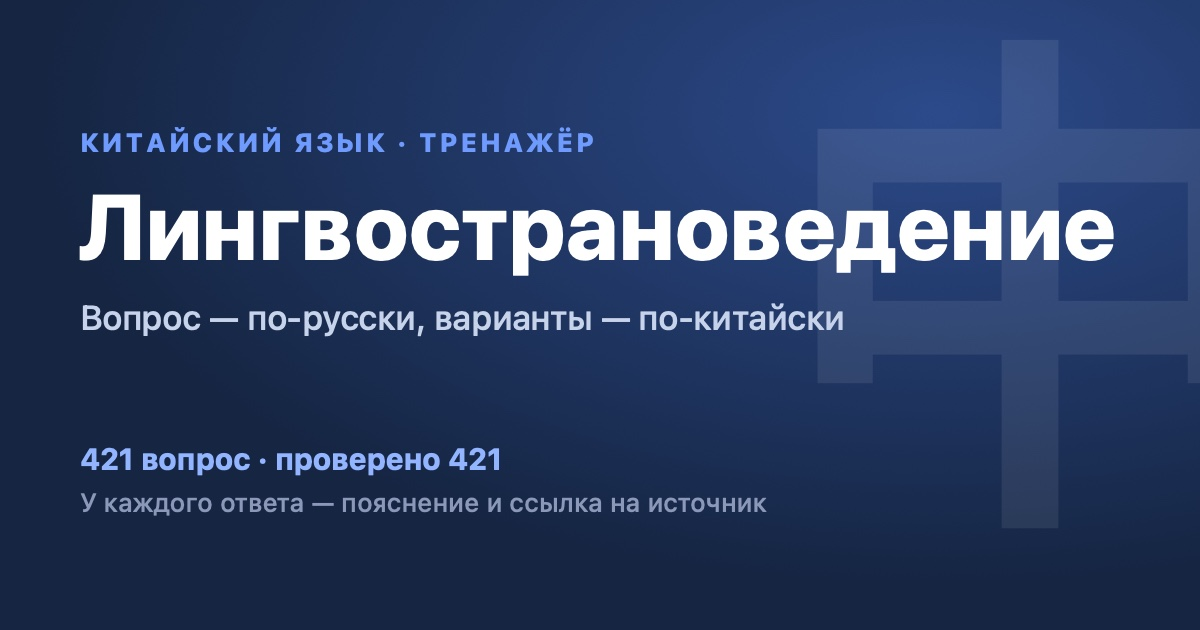
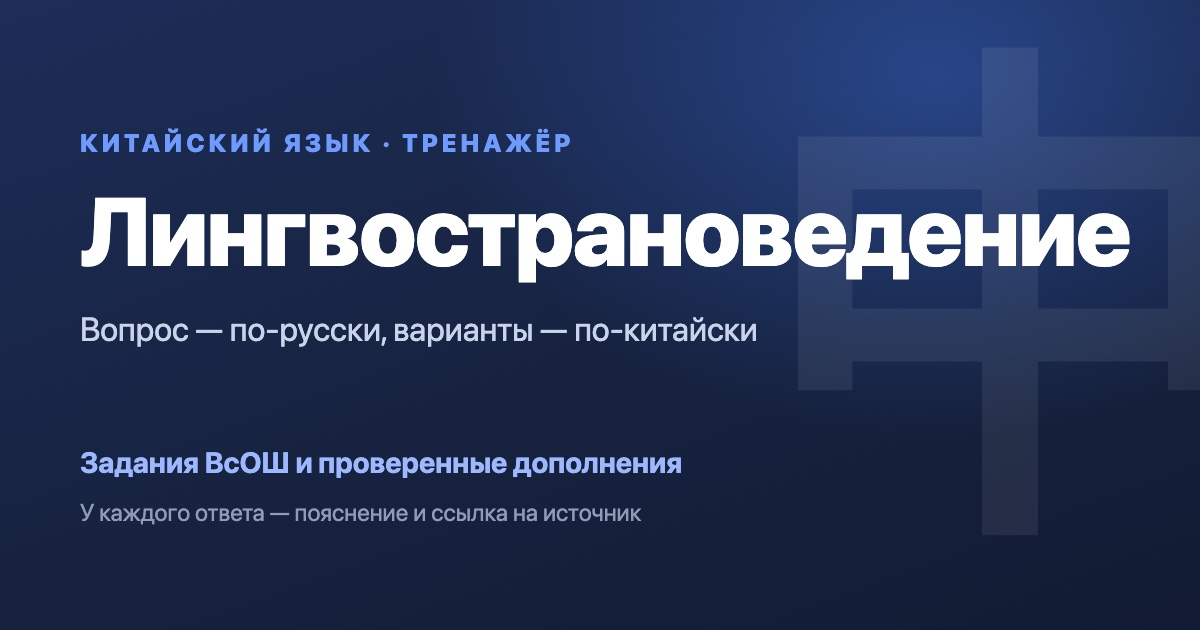
Считать описание и подвал по банку, перерисовать превью без чисел
Описание для поисковиков и соцсетей говорило «421 вопрос» при 461 в банке,
подвал писал «421 вопросов» и обещал ответы, которые «ждут перепроверки»,
хотя таких нет. Теперь оба текста считаются по банку, картинка превью —
без чисел, чтобы не устаревать при каждом пополнении.

diff --git a/dist/lingvostranovedenie-trainer.html b/dist/lingvostranovedenie-trainer.html
@@ -4,18 +4,18 @@
 <meta charset="utf-8">
 <meta name="viewport" content="width=device-width, initial-scale=1">
 <title>Лингвострановедение — тренажёр ВсОШ</title>
-<meta name="description" content="421 вопрос ВсОШ по лингвострановедению Китая: вопрос по-русски, варианты по-китайски, у каждого ответа — пояснение и ссылка на источник.">
+<meta name="description" content="461 вопрос по лингвострановедению Китая для подготовки к ВсОШ: вопрос по-русски, варианты по-китайски, у каждого ответа — пояснение и ссылка на источник.">
[1 lines of base64/hex data omitted]
 <meta property="og:type" content="website">
 <meta property="og:title" content="Лингвострановедение — тренажёр ВсОШ">
-<meta property="og:description" content="421 вопрос ВсОШ по лингвострановедению Китая: вопрос по-русски, варианты по-китайски, у каждого ответа — пояснение и ссылка на источник.">
+<meta property="og:description" content="461 вопрос по лингвострановедению Китая для подготовки к ВсОШ: вопрос по-русски, варианты по-китайски, у каждого ответа — пояснение и ссылка на источник.">
 <meta property="og:url" content="https://bronik04.github.io/lingvostranovedenie-trainer/">
 <meta property="og:image" content="https://bronik04.github.io/lingvostranovedenie-trainer/og-image.jpg">
 <meta property="og:image:width" content="1200">
 <meta property="og:image:height" content="630">
 <meta name="twitter:card" content="summary_large_image">
 <meta name="twitter:title" content="Лингвострановедение — тренажёр ВсОШ">
-<meta name="twitter:description" content="421 вопрос ВсОШ по лингвострановедению Китая: вопрос по-русски, варианты по-китайски, у каждого ответа — пояснение и ссылка на источник.">
+<meta name="twitter:description" content="461 вопрос по лингвострановедению Китая для подготовки к ВсОШ: вопрос по-русски, варианты по-китайски, у каждого ответа — пояснение и ссылка на источник.">
 <meta name="twitter:image" content="https://bronik04.github.io/lingvostranovedenie-trainer/og-image.jpg">
[2 lines of base64/hex data omitted]
@@ -361,6 +361,30 @@ function labelledOptions(record, random = Math.random) {
 
 function grade(record, optionId) {
   return { correct: record.answer.optionId === optionId, answerOptionId: record.answer.optionId };
+}
+
+function pluralRu(count, forms) {
+  if (count % 10 === 1 && count % 100 !== 11) return forms[0];
+  if (count % 10 >= 2 && count % 10 <= 4 && !(count % 100 >= 12 && count % 100 <= 14)) return forms[1];
+  return forms[2];
+}
+
+function bankSummary(bank) {
+  const additions = bank.filter((record) => record.origin === 'addition').length;
+  const olympiad = bank.length - additions;
+  const years = bank.flatMap((record) => record.occurrences.map((o) => o.year)).sort();
+  const span = years.length ? ` ${years[0].replace('-', '/')} — ${years.at(-1).replace('-', '/')}` : '';
+  const verified = bank.filter((record) => record.answer.state === 'verified').length;
+  const additionNote = additions
+    ? ` и ${additions} ${pluralRu(additions,
+      ['проверенное дополнение', 'проверенных дополнения', 'проверенных дополнений'])} к ним`
+    : '';
+  const sources = verified === bank.length
+    ? 'У каждого ответа есть пояснение и ссылка на источник.'
+    : `У ${verified} ${pluralRu(verified, ['ответа', 'ответов', 'ответов'])} есть пояснение и ссылка `
+      + 'на источник; остальные ответы взяты из официального ключа и ждут перепроверки.';
+  return `В базе ${olympiad} ${pluralRu(olympiad, ['вопрос', 'вопроса', 'вопросов'])} из материалов ВсОШ`
+    + `${span}${additionNote}. ${sources}`;
 }
 
 </script>
@@ -981,17 +1005,7 @@ $('importProgressFile').addEventListener('change', (event) => {
   event.target.value = '';
 });
 
-const verifiedCount = QUESTION_BANK.filter((r) => r.answer.state === 'verified').length;
-const additionCount = QUESTION_BANK.filter((r) => r.origin === 'addition').length;
-const olympiadCount = QUESTION_BANK.length - additionCount;
-const additionNote = additionCount
-  ? ` ${additionCount} — проверенные дополнения к олимпиадной базе.`
-  : '';
-$('footerNote').textContent =
-  `${olympiadCount} вопросов собраны из материалов ВсОШ 2015/16 — 2025/26.` +
-  additionNote +
-  ` У ${verifiedCount} ответов есть пояснение и ссылка на источник; у остальных ответ взят из ` +
-  'официального ключа и ждёт перепроверки.';
+$('footerNote').textContent = bankSummary(QUESTION_BANK);
 
 initTheme();
 renderSetup();

diff --git a/src/template.html b/src/template.html
@@ -4,18 +4,18 @@
 <meta charset="utf-8">
 <meta name="viewport" content="width=device-width, initial-scale=1">
 <title>Лингвострановедение — тренажёр ВсОШ</title>
-<meta name="description" content="421 вопрос ВсОШ по лингвострановедению Китая: вопрос по-русски, варианты по-китайски, у каждого ответа — пояснение и ссылка на источник.">
+<meta name="description" content="/*BANK_DESCRIPTION*/">
[1 lines of base64/hex data omitted]
 <meta property="og:type" content="website">
 <meta property="og:title" content="Лингвострановедение — тренажёр ВсОШ">
-<meta property="og:description" content="421 вопрос ВсОШ по лингвострановедению Китая: вопрос по-русски, варианты по-китайски, у каждого ответа — пояснение и ссылка на источник.">
+<meta property="og:description" content="/*BANK_DESCRIPTION*/">
 <meta property="og:url" content="https://bronik04.github.io/lingvostranovedenie-trainer/">
 <meta property="og:image" content="https://bronik04.github.io/lingvostranovedenie-trainer/og-image.jpg">
 <meta property="og:image:width" content="1200">
 <meta property="og:image:height" content="630">
 <meta name="twitter:card" content="summary_large_image">
 <meta name="twitter:title" content="Лингвострановедение — тренажёр ВсОШ">
-<meta name="twitter:description" content="421 вопрос ВсОШ по лингвострановедению Китая: вопрос по-русски, варианты по-китайски, у каждого ответа — пояснение и ссылка на источник.">
+<meta name="twitter:description" content="/*BANK_DESCRIPTION*/">
 <meta name="twitter:image" content="https://bronik04.github.io/lingvostranovedenie-trainer/og-image.jpg">
[2 lines of base64/hex data omitted]

diff --git a/site-assets/og-image.html b/site-assets/og-image.html
@@ -1,0 +1,44 @@
+<!DOCTYPE html>
+<!--
+  Исходник картинки превью ссылок (og-image.jpg, 1200×630).
+  Чисел здесь сознательно нет: они устаревали при каждом пополнении банка.
+  Пересобрать: python3 scripts/render_og_image.py (нужен установленный Google Chrome).
+-->
+<html lang="ru">
+<head>
+<meta charset="utf-8">
+<style>
+  html, body { margin: 0; width: 1200px; height: 630px; overflow: hidden; }
+  body {
+    position: relative;
+    font-family: -apple-system, "SF Pro Display", "Helvetica Neue", Arial, sans-serif;
+    background:
+      radial-gradient(ellipse 720px 520px at 78% 12%, rgba(52, 96, 190, 0.55), transparent 70%),
+      linear-gradient(160deg, #1d2d58 0%, #16223f 55%, #121b33 100%);
+    color: #fff;
+  }
+  .glyph {
+    position: absolute; right: -70px; top: 30px;
+    font-family: "PingFang SC", "Hiragino Sans GB", "Noto Sans SC", sans-serif;
+    font-size: 520px; font-weight: 600; line-height: 1;
+    color: rgba(255, 255, 255, 0.075);
+  }
+  .content { position: absolute; left: 80px; top: 128px; right: 80px; }
+  .eyebrow { font-size: 25px; font-weight: 800; letter-spacing: 0.16em; color: #6f9bff; }
+  h1 { margin: 26px 0 0; font-size: 96px; font-weight: 800; letter-spacing: -0.02em; line-height: 1; }
+  .subtitle { margin-top: 30px; font-size: 33px; color: #c9d3ea; }
+  .accent { margin-top: 96px; font-size: 29px; font-weight: 700; color: #9db8ff; }
+  .note { margin-top: 18px; font-size: 24px; color: #8f9bb7; }
+</style>
+</head>
+<body>
+  <div class="glyph">中</div>
+  <div class="content">
+    <div class="eyebrow">КИТАЙСКИЙ ЯЗЫК · ТРЕНАЖЁР</div>
+    <h1>Лингвострановедение</h1>
+    <div class="subtitle">Вопрос — по-русски, варианты — по-китайски</div>
+    <div class="accent">Задания ВсОШ и проверенные дополнения</div>
+    <div class="note">У каждого ответа — пояснение и ссылка на источник</div>
+  </div>
+</body>
+</html>

diff --git a/src/quiz.ui.js b/src/quiz.ui.js
@@ -615,17 +615,7 @@ $('importProgressFile').addEventListener('change', (event) => {
   event.target.value = '';
 });
 
-const verifiedCount = QUESTION_BANK.filter((r) => r.answer.state === 'verified').length;
-const additionCount = QUESTION_BANK.filter((r) => r.origin === 'addition').length;
-const olympiadCount = QUESTION_BANK.length - additionCount;
-const additionNote = additionCount
-  ? ` ${additionCount} — проверенные дополнения к олимпиадной базе.`
-  : '';
-$('footerNote').textContent =
-  `${olympiadCount} вопросов собраны из материалов ВсОШ 2015/16 — 2025/26.` +
-  additionNote +
-  ` У ${verifiedCount} ответов есть пояснение и ссылка на источник; у остальных ответ взят из ` +
-  'официального ключа и ждёт перепроверки.';
+$('footerNote').textContent = bankSummary(QUESTION_BANK);
 
 initTheme();
 renderSetup();

diff --git a/scripts/build_html.py b/scripts/build_html.py
@@ -4,6 +4,7 @@ from __future__ import annotations
 
 import json
 import sys
+from html import escape
 from pathlib import Path
 
 ROOT = Path(__file__).resolve().parents[1]
@@ -15,6 +16,27 @@ from taxonomy import TOPICS
 from authored import validate_authored
 
 TARGET = ROOT / 'dist/lingvostranovedenie-trainer.html'
+
+
+def plural_ru(count: int, forms: tuple[str, str, str]) -> str:
+    """Форма слова для числа: (1 вопрос, 2 вопроса, 5 вопросов)."""
+    if count % 10 == 1 and count % 100 != 11:
+        return forms[0]
+    if 2 <= count % 10 <= 4 and not 12 <= count % 100 <= 14:
+        return forms[1]
+    return forms[2]
+
+
+def bank_description(bank: list[dict]) -> str:
+    """Описание для поисковиков и превью ссылок — считается по банку при сборке,
+    чтобы число вопросов не устаревало."""
+    count = len(bank)
+    every_verified = all(record['answer']['state'] == 'verified' for record in bank)
+    sources = ('у каждого ответа — пояснение и ссылка на источник' if every_verified
+               else 'у проверенных ответов — пояснение и ссылка на источник')
+    return (f'{count} {plural_ru(count, ("вопрос", "вопроса", "вопросов"))} '
+            f'по лингвострановедению Китая для подготовки к ВсОШ: вопрос по-русски, '
+            f'варианты по-китайски, {sources}.')
 
 
 def serialize_bank(bank: list[dict]) -> str:
@@ -64,6 +86,7 @@ def main() -> None:
         raise SystemExit(1)
 
     html = (ROOT / 'src/template.html').read_text('utf-8')
+    html = html.replace('/*BANK_DESCRIPTION*/', escape(bank_description(bank)))
     html = html.replace('/*QUIZ_CSS*/', minify_css((ROOT / 'src/quiz.css').read_text('utf-8')))
     engine = minify_js((ROOT / 'src/quiz.mjs').read_text('utf-8').replace('export ', ''))
     html = html.replace('/*QUIZ_ENGINE*/', engine)

diff --git a/scripts/render_og_image.py b/scripts/render_og_image.py
@@ -1,0 +1,49 @@
+"""Перерисовать site-assets/og-image.jpg из site-assets/og-image.html.
+
+Запускается вручную после правки исходника, в сборку и CI не входит: нужен
+установленный Google Chrome, а картинка меняется редко.
+"""
+
+from __future__ import annotations
+
+import shutil
+import subprocess
+import tempfile
+from pathlib import Path
+
+ROOT = Path(__file__).resolve().parents[1]
+SOURCE = ROOT / 'site-assets/og-image.html'
+TARGET = ROOT / 'site-assets/og-image.jpg'
+CHROME_CANDIDATES = [
+    '/Applications/Google Chrome.app/Contents/MacOS/Google Chrome',
+    'google-chrome', 'google-chrome-stable', 'chromium',
+]
+
+
+def find_chrome() -> str:
+    for candidate in CHROME_CANDIDATES:
+        path = shutil.which(candidate) or (candidate if Path(candidate).exists() else None)
+        if path:
+            return path
+    raise SystemExit('не найден Google Chrome или Chromium')
+
+
+def main() -> None:
+    with tempfile.TemporaryDirectory() as tmp:
+        png = Path(tmp) / 'og-image.png'
+        subprocess.run([
+            find_chrome(), '--headless', '--disable-gpu', '--hide-scrollbars',
+            '--force-device-scale-factor=1', '--window-size=1200,630',
+            f'--screenshot={png}', SOURCE.as_uri(),
+        ], check=True, capture_output=True)
+        # sips есть на любом macOS; на Linux подойдёт ImageMagick
+        if shutil.which('sips'):
+            subprocess.run(['sips', '-s', 'format', 'jpeg', '-s', 'formatOptions', '88',
+                            str(png), '--out', str(TARGET)], check=True, capture_output=True)
+        else:
+            subprocess.run(['convert', str(png), '-quality', '88', str(TARGET)], check=True)
+    print(f'готово: {TARGET} ({TARGET.stat().st_size // 1024} КБ)')
+
+
+if __name__ == '__main__':
+    main()

diff --git a/test/test_build_invariants.py b/test/test_build_invariants.py
@@ -3,7 +3,7 @@ from pathlib import Path
 
 ROOT = Path(__file__).resolve().parents[1]
 sys.path.insert(0, str(ROOT / 'scripts'))
-from build_html import serialize_bank, validate
+from build_html import bank_description, plural_ru, serialize_bank, validate
 
 
 def record(**overrides):
@@ -59,6 +59,26 @@ class ValidateTest(unittest.TestCase):
 
     def test_rejects_unknown_topic(self):
         self.assertTrue(validate([record(topic='Разное')]))
+
+
+class DescriptionTest(unittest.TestCase):
+    FORMS = ('вопрос', 'вопроса', 'вопросов')
+
+    def test_russian_plural_forms(self):
+        cases = {1: 'вопрос', 2: 'вопроса', 4: 'вопроса', 5: 'вопросов', 11: 'вопросов',
+                 12: 'вопросов', 21: 'вопрос', 22: 'вопроса', 111: 'вопросов', 461: 'вопрос'}
+        for count, expected in cases.items():
+            self.assertEqual(plural_ru(count, self.FORMS), expected, count)
+
+    def test_description_counts_the_whole_bank(self):
+        bank = [record(id=f'q{index}') for index in range(462)]
+        text = bank_description(bank)
+        self.assertTrue(text.startswith('462 вопроса '), text)
+        self.assertIn('у каждого ответа — пояснение и ссылка на источник', text)
+
+    def test_description_does_not_overclaim_unverified_answers(self):
+        bank = [record(), record(id='q2', answer={'optionId': 'o2', 'state': 'unverified'})]
+        self.assertNotIn('у каждого ответа', bank_description(bank))
 
 
 if __name__ == '__main__':

diff --git a/CHANGELOG.md b/CHANGELOG.md
@@ -178,6 +178,18 @@
   «история цигун в годах», ошибки в пояснениях (площадь Китая и Внутренней
   Монголии, Тайвань как колония, Потала).
 
+## 2026-09-24 — Исправления по итогам осмотра
+
+- Описание сайта для поисковиков и превью ссылок больше не устаревает: число
+  вопросов подставляется при сборке (`bank_description` в `scripts/build_html.py`),
+  было захардкожено «421 вопрос» при 461 в банке.
+- Подвал считает всё по банку (`bankSummary` в `src/quiz.mjs`): вопросы, дополнения
+  и годы, с правильным склонением («421 вопрос», а не «421 вопросов»). Фраза про
+  ответы, которые «ждут перепроверки», появляется, только если такие ответы есть.
+- Картинка превью `site-assets/og-image.jpg` перерисована без чисел («421 вопрос ·
+  проверено 421» устарело); у неё появился исходник `site-assets/og-image.html` и
+  скрипт `scripts/render_og_image.py` (нужен Chrome, в сборку не входит).
+
 ## Не реализовано (сознательно или пока)
 
 - Печатные стили (`@media print`) — не запрашивались, не делались.
